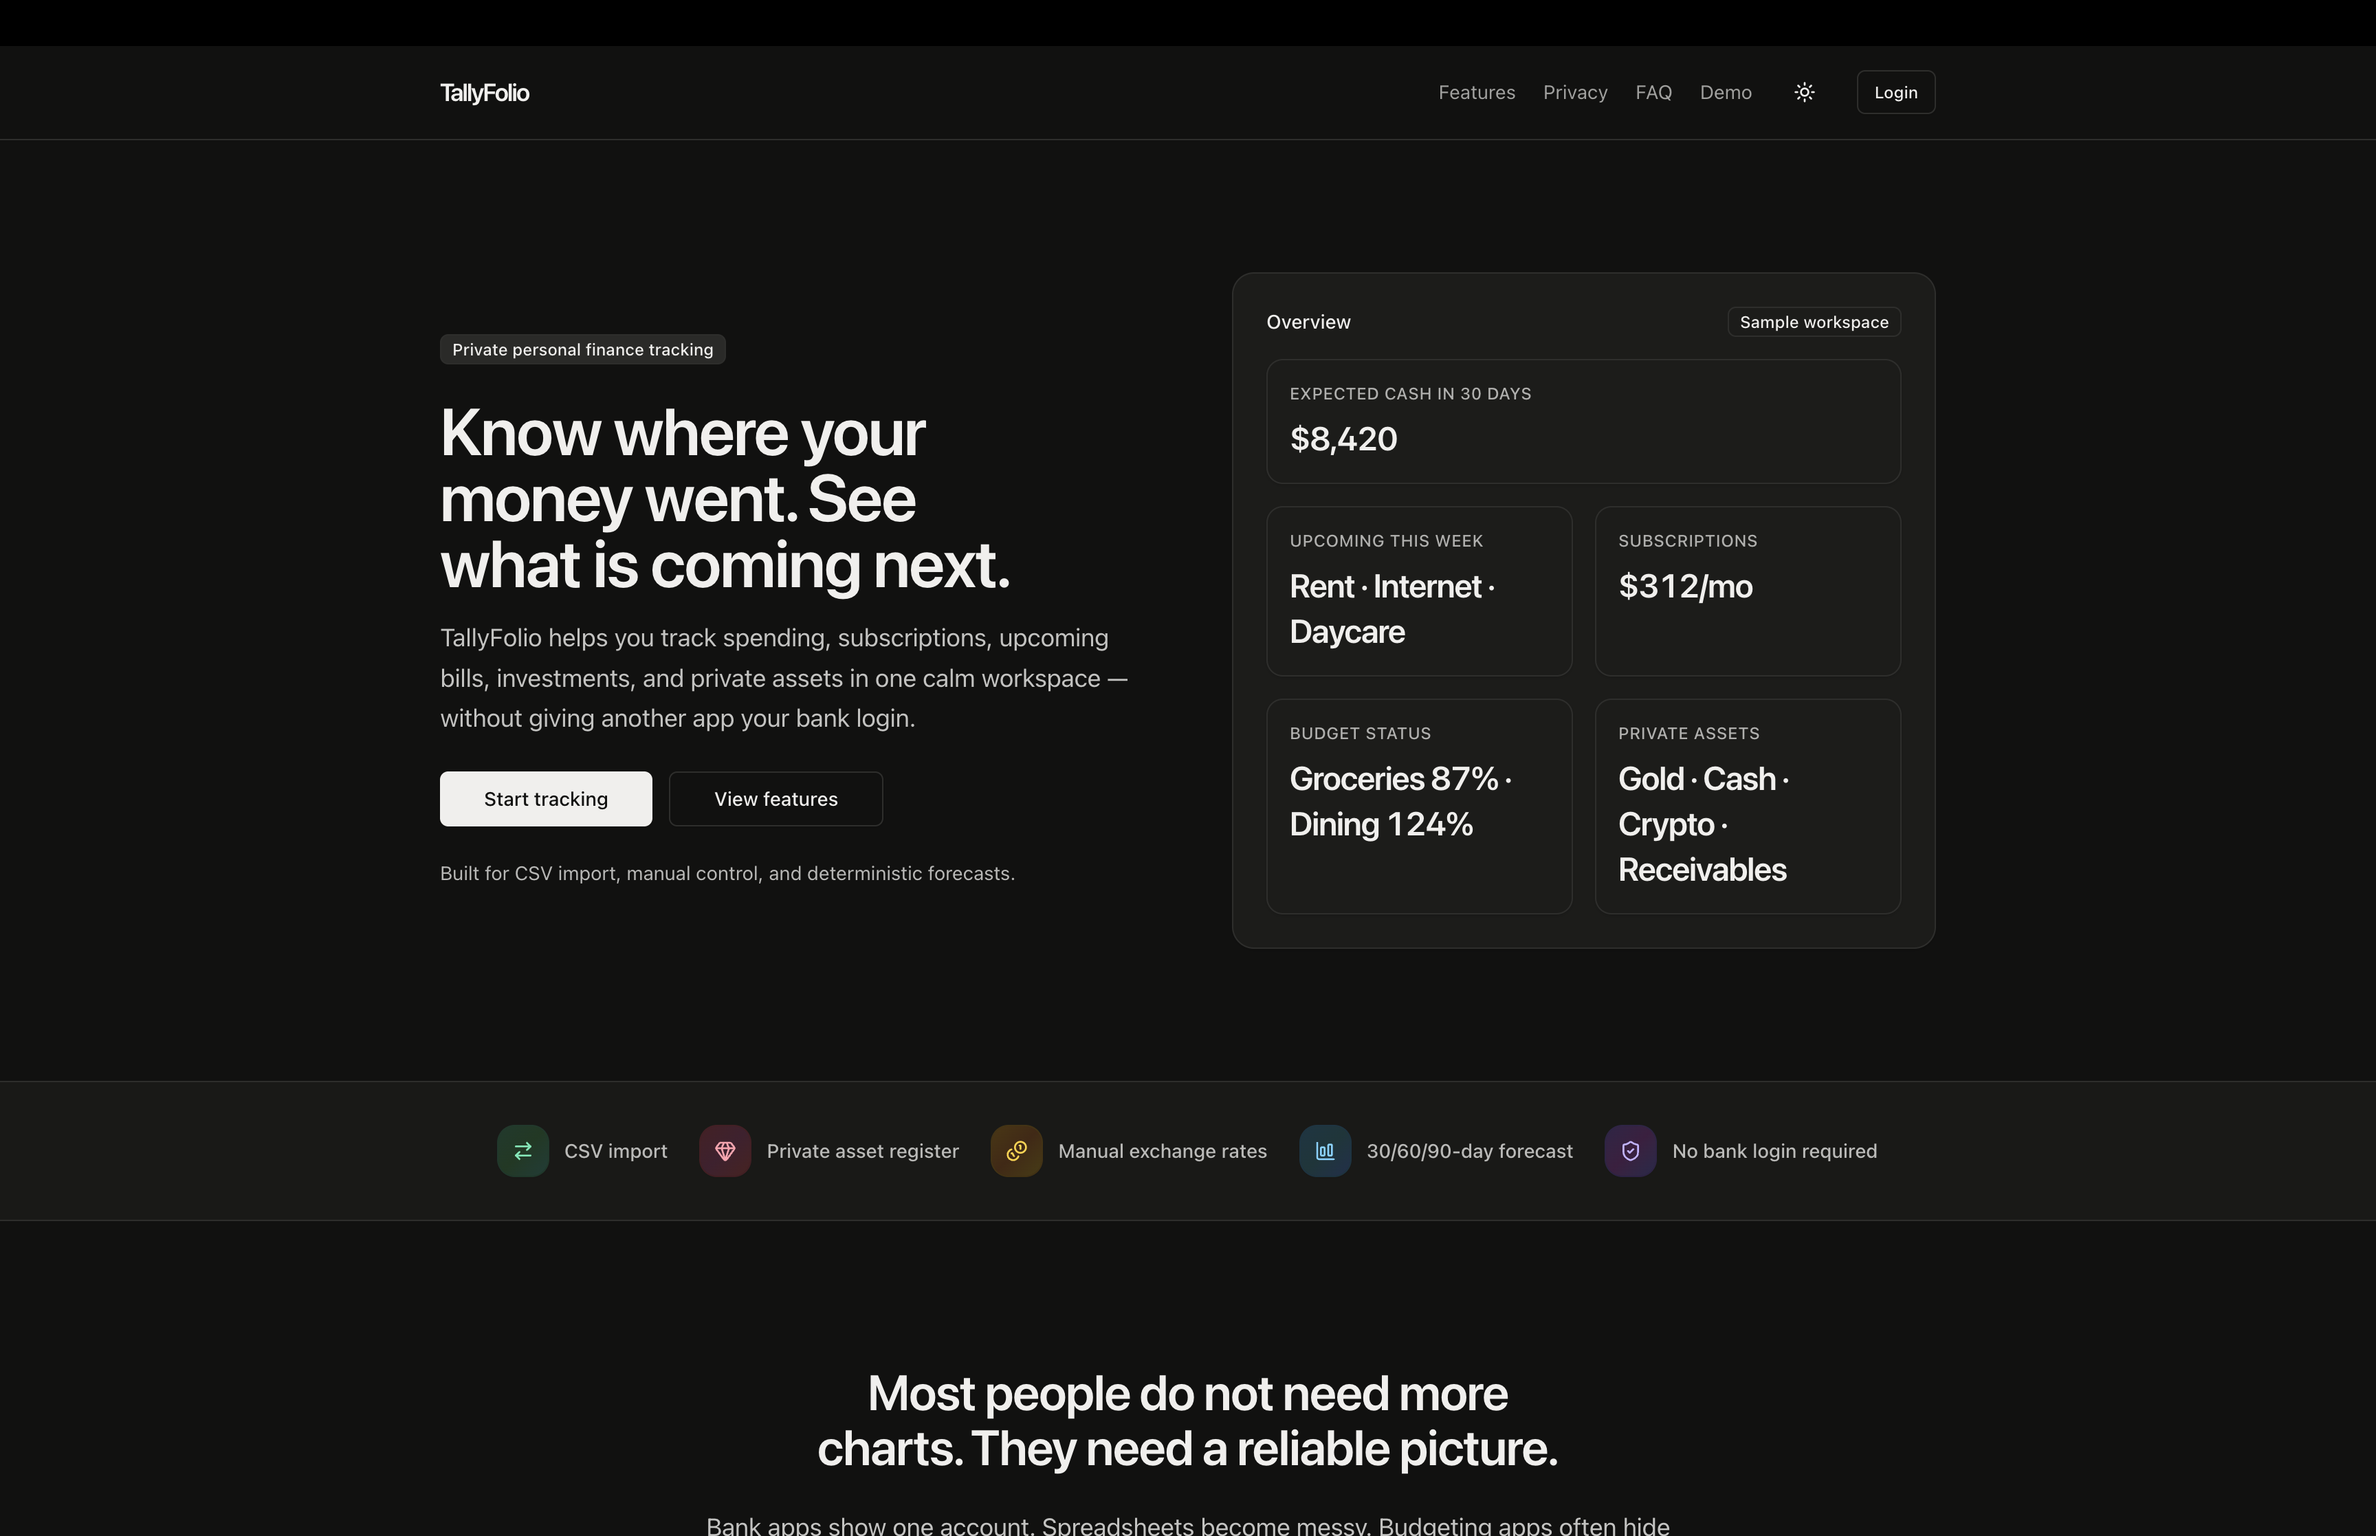
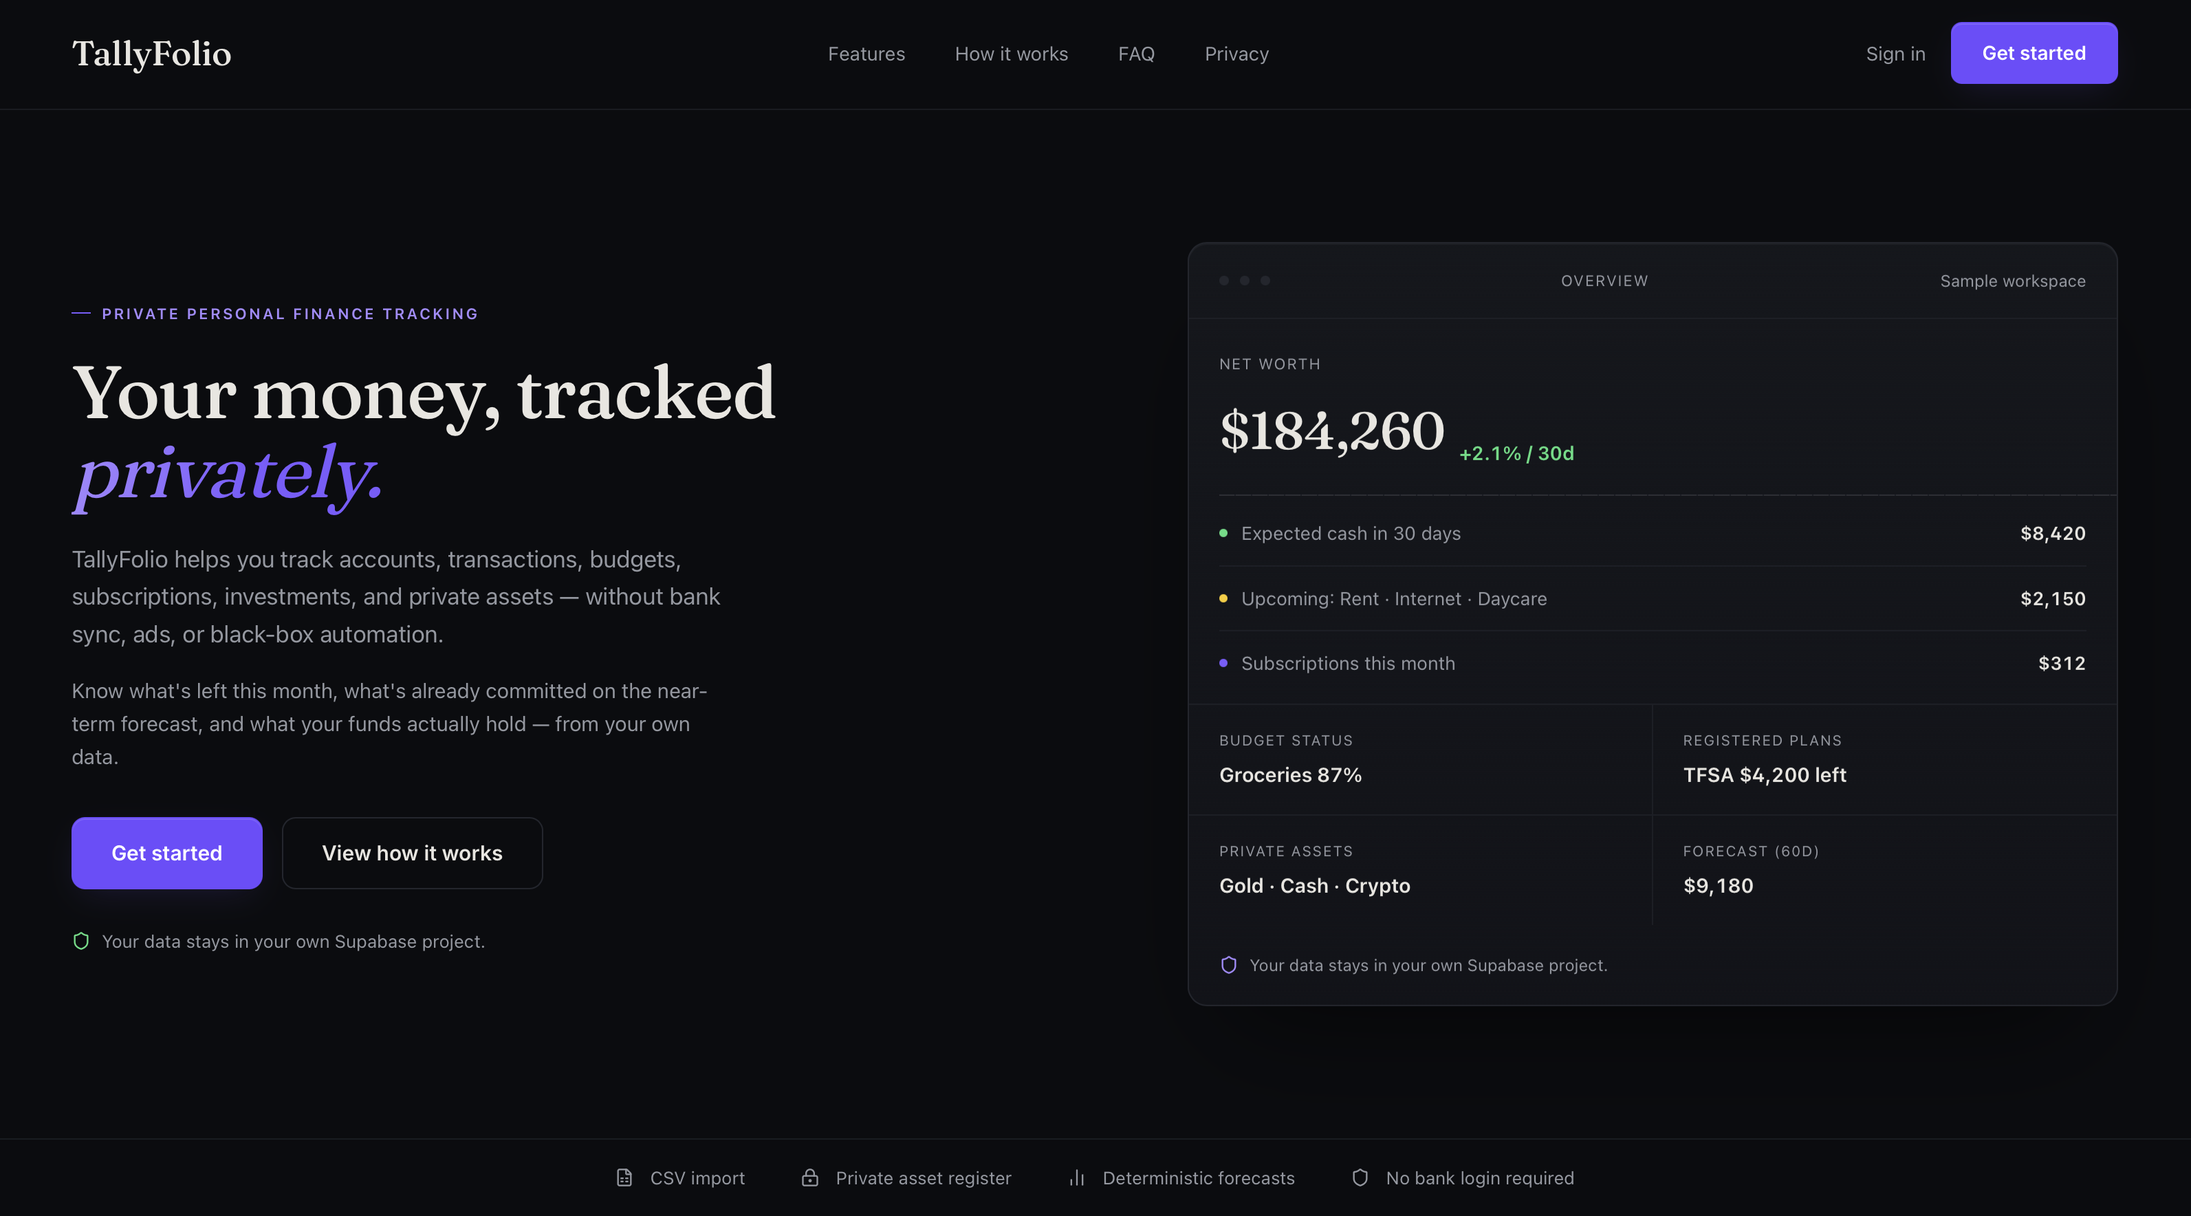
content: unify positioning line and refresh README (#180)
Use one positioning line across the site tagline, home and Open Graph
titles, footer, README, and CLAUDE.md: "Senior Product Engineer,
frontend architecture, design systems, and full-stack product work".

- Rewrite the profile README around case studies, open source, and writing
- Balance the footer brand line so the longer text wraps evenly
- Replace the TallyFolio landing screenshot and update its dimensions

diff --git a/utils/__tests__/metadata.spec.ts b/utils/__tests__/metadata.spec.ts
@@ -26,13 +26,13 @@ import { getProjectBySlug } from "utils/projects";
 describe("utils/metadata", () => {
   it("should keep the homepage positioning metadata exact", () => {
     expect(HOME_TITLE).toBe(
-      "Ali Pajand — Senior Product Engineer | Frontend Architecture & Full-Stack"
+      "Ali Pajand — Senior Product Engineer, frontend architecture, design systems, and full-stack product work"
     );
     expect(SITE_META_DESCRIPTION).toBe(
       "Senior product engineer in Montreal with 9+ years in React, TypeScript, and Next.js. Frontend architecture and design systems for complex SaaS, with the Node.js APIs, data models, and async workflows behind them."
     );
     expect(HOME_OPEN_GRAPH_TITLE).toBe(
-      "Ali Pajand — Senior Product Engineer · Frontend Architecture"
+      "Ali Pajand — Senior Product Engineer, frontend architecture, design systems, and full-stack product work"
     );
     expect(HOME_OPEN_GRAPH_DESCRIPTION).toBe(
       "Frontend architecture, design systems, and engineering standards for complex products, plus the APIs, data, and background work behind them."

diff --git a/data/site.ts b/data/site.ts
@@ -1,11 +1,13 @@
 export const SITE_NAME = "Ali Pajand";
 
-export const TAGLINE = "Senior Product Engineer · Frontend Architecture";
+export const TAGLINE =
+  "Senior Product Engineer, frontend architecture, design systems, and full-stack product work";
 
 export const HOME_TITLE =
-  "Ali Pajand — Senior Product Engineer | Frontend Architecture & Full-Stack";
+  "Ali Pajand — Senior Product Engineer, frontend architecture, design systems, and full-stack product work";
 
-export const HOME_OPEN_GRAPH_TITLE = "Ali Pajand — Senior Product Engineer · Frontend Architecture";
+export const HOME_OPEN_GRAPH_TITLE =
+  "Ali Pajand — Senior Product Engineer, frontend architecture, design systems, and full-stack product work";
 
 export const HOME_OPEN_GRAPH_DESCRIPTION =
   "Frontend architecture, design systems, and engineering standards for complex products, plus the APIs, data, and background work behind them.";

diff --git a/components/Footer/Footer.tsx b/components/Footer/Footer.tsx
@@ -32,7 +32,9 @@ export const Footer = ({ latestWritings }: FooterProps) => {
     >
       <div className={SECTION_INNER}>
         <div className="mb-10 space-y-2">
-          <p className="font-display text-lg font-semibold text-foreground">{FOOTER_BRAND}</p>
+          <p className="font-display text-lg font-semibold text-balance text-foreground">
+            {FOOTER_BRAND}
+          </p>
           <p className="text-sm text-muted">{FOOTER_LOCATION}</p>
         </div>
 

diff --git a/data/footer.ts b/data/footer.ts
@@ -32,7 +32,8 @@ export const FOOTER_WRITING_LABEL = "Latest writing";
 
 export const FOOTER_LATEST_WRITINGS_COUNT = 4;
 
-export const FOOTER_BRAND = "Ali Pajand — Senior Product Engineer · Frontend Architecture";
+export const FOOTER_BRAND =
+  "Ali Pajand — Senior Product Engineer, frontend architecture, design systems, and full-stack product work";
 
 export const FOOTER_LOCATION = "Based in Montreal, Canada · Open to remote work within Canada";
 

diff --git a/data/projects.ts b/data/projects.ts
@@ -284,8 +284,8 @@ export const PROJECTS: Project[] = [
         {
           type: "image",
           src: "/portfolio-media/tallyfolio-landing.png",
-          width: 3456,
-          height: 2234,
+          width: 3186,
+          height: 1768,
           alt: "TallyFolio landing page",
           captionLead: "Landing page.",
           captionBody:

diff --git a/README.md b/README.md
@@ -1,9 +1,56 @@
-# Hi, I'm Ali Pajand 👋
+# Ali Pajand
 
-Senior Product Engineer · Frontend Architecture
+Senior Product Engineer, frontend architecture, design systems, and full-stack product work
 
-Senior product engineer in Montreal with 9+ years in React, TypeScript, and Next.js. Frontend architecture and design systems for complex SaaS, with the Node.js APIs, data models, and async workflows behind them.
+I've spent 9+ years building production products in React, TypeScript, and Next.js. I focus on frontend architecture, design systems, and complex SaaS workflows, and I also build the Node.js/Fastify APIs, PostgreSQL models, and background jobs behind them.
 
-- **Site:** [alipajand.com](https://alipajand.com)
-- **LinkedIn:** [@alipajand](https://www.linkedin.com/in/alipajand/)
-- **GitHub:** [@alipajand](https://github.com/alipajand)
+**Available for senior frontend, full-stack, and product engineering roles.**
+
+[alipajand.com](https://alipajand.com) · [Portfolio](https://alipajand.com/portfolio) · [LinkedIn](https://www.linkedin.com/in/alipajand/) · [Book a call](https://calendly.com/alipajand/intro)
+
+## What I work on
+
+- **Frontend architecture:** component APIs, rendering performance, and async, error, and empty states in data-heavy UI
+- **Design systems:** shared component libraries, Storybook, accessibility defaults, and the conventions that keep them consistent
+- **Full-stack delivery:** Node.js/Fastify APIs, PostgreSQL, auth, queue-backed background workers, and CI/CD
+- **AI product workflows:** interfaces where model output stays unconfirmed until a person has reviewed it
+- **Developer experience:** code review standards, CI quality gates, and tools for safer AI-assisted coding
+
+## Case studies
+
+| Project                                                          | What it shows                                                                                                 |
+| ---------------------------------------------------------------- | ------------------------------------------------------------------------------------------------------------- |
+| [LedgerGuard](https://alipajand.com/portfolio/ledgerguard)       | Multi-tenant AI contract intelligence SaaS, built end to end: Next.js, Fastify, PostgreSQL, document pipeline |
+| [AlwaysGeeky Games](https://alipajand.com/portfolio/alwaysgeeky) | Shared React/TypeScript component library across four product surfaces, with CI gates and accessibility rules |
+| [Emplifi](https://alipajand.com/portfolio/emplifi)               | D3.js enterprise analytics, including an 80% cut in unnecessary re-renders and chart paint work in webviews   |
+| [Agent tooling](https://alipajand.com/portfolio/agent-tooling)   | Deterministic TypeScript CLIs for AI-assisted development                                                     |
+| [TallyFolio](https://alipajand.com/portfolio/tallyfolio)         | Privacy-first personal finance PWA with deterministic money math and CSV import review                        |
+| [ControlTech](https://alipajand.com/portfolio/controltech)       | Four years of taking early-stage SaaS products and PWAs from MVP to production                                |
+
+## Open source
+
+Local-first developer tools that make AI-assisted coding and review safer. No LLM in the loop.
+
+- [**agent-context-doctor**](https://github.com/alipajand/agent-context-doctor): audits `AGENTS.md`, `CLAUDE.md`, Cursor rules, and Copilot instructions for missing context, contradictions, and risky guidance
+- [**agent-pr-reviewer-lite**](https://github.com/alipajand/agent-pr-reviewer-lite): flags the files in a pull request that need human review before merge
+- [**agent-readiness-kit**](https://github.com/alipajand/agent-readiness-kit): checks whether a repository's conventions, docs, and tooling are ready for AI coding agents
+
+## Writing
+
+- [How I use AI in my frontend engineering workflow](https://alipajand.com/writing/how-i-use-ai-in-my-frontend-engineering-workflow)
+- [How I approach senior frontend architecture](https://alipajand.com/writing/how-i-approach-senior-frontend-architecture)
+- [The quiet failure mode in contract AI](https://alipajand.com/writing/ledgerguard-truth-between-extraction-and-finance)
+- [Design systems that stick](https://alipajand.com/writing/design-systems-that-stick)
+
+More in [/writing](https://alipajand.com/writing) and [engineering principles](https://alipajand.com/engineering-principles).
+
+## About this repo
+
+This repo is the source for [alipajand.com](https://alipajand.com): Next.js App Router, React, TypeScript, and Tailwind CSS, with Markdown-driven writing and case studies, deployed on Vercel.
+
+```bash
+pnpm install
+pnpm dev
+```
+
+Checks: `pnpm lint`, `pnpm typecheck`, `pnpm test`, `pnpm build`. Architecture and route notes are in [`docs/`](docs/).

diff --git a/CLAUDE.md b/CLAUDE.md
@@ -6,11 +6,11 @@ This file gives Claude Code project-specific instructions for `alipajand/alipaja
 
 This repository powers Ali Pajand's personal portfolio site.
 
-Primary goal: make the site work as a senior-level hiring and credibility surface for a product-minded Full-Stack Web Developer / Product Engineer with deep frontend expertise.
+Primary goal: make the site work as a senior-level hiring and credibility surface for a Senior Product Engineer with deep frontend expertise.
 
 Core positioning:
 
-- Full-Stack Web Developer / Product Engineer
+- Senior Product Engineer, frontend architecture, design systems, and full-stack product work
 - Frontend architecture, React, Next.js, TypeScript
 - Design systems, accessibility, visual polish, interaction quality
 - AI product workflows and developer experience
@@ -258,7 +258,7 @@ When summarizing work, include:
 - Name: Ali Pajand
 - Location: Montreal, Canada
 - Site: alipajand.com
-- Positioning: Full-Stack Web Developer / Product Engineer
+- Positioning: Senior Product Engineer, frontend architecture, design systems, and full-stack product work
 - Experience: 9+ years
 - Core technologies: React, Next.js, TypeScript, Node.js, Fastify, PostgreSQL, design systems, accessibility, dashboards, AI product workflows, developer experience
 - Recent work includes LedgerGuard, AlwaysGeeky Games, Emplifi, ControlTech, and AI/DX open-source tooling
